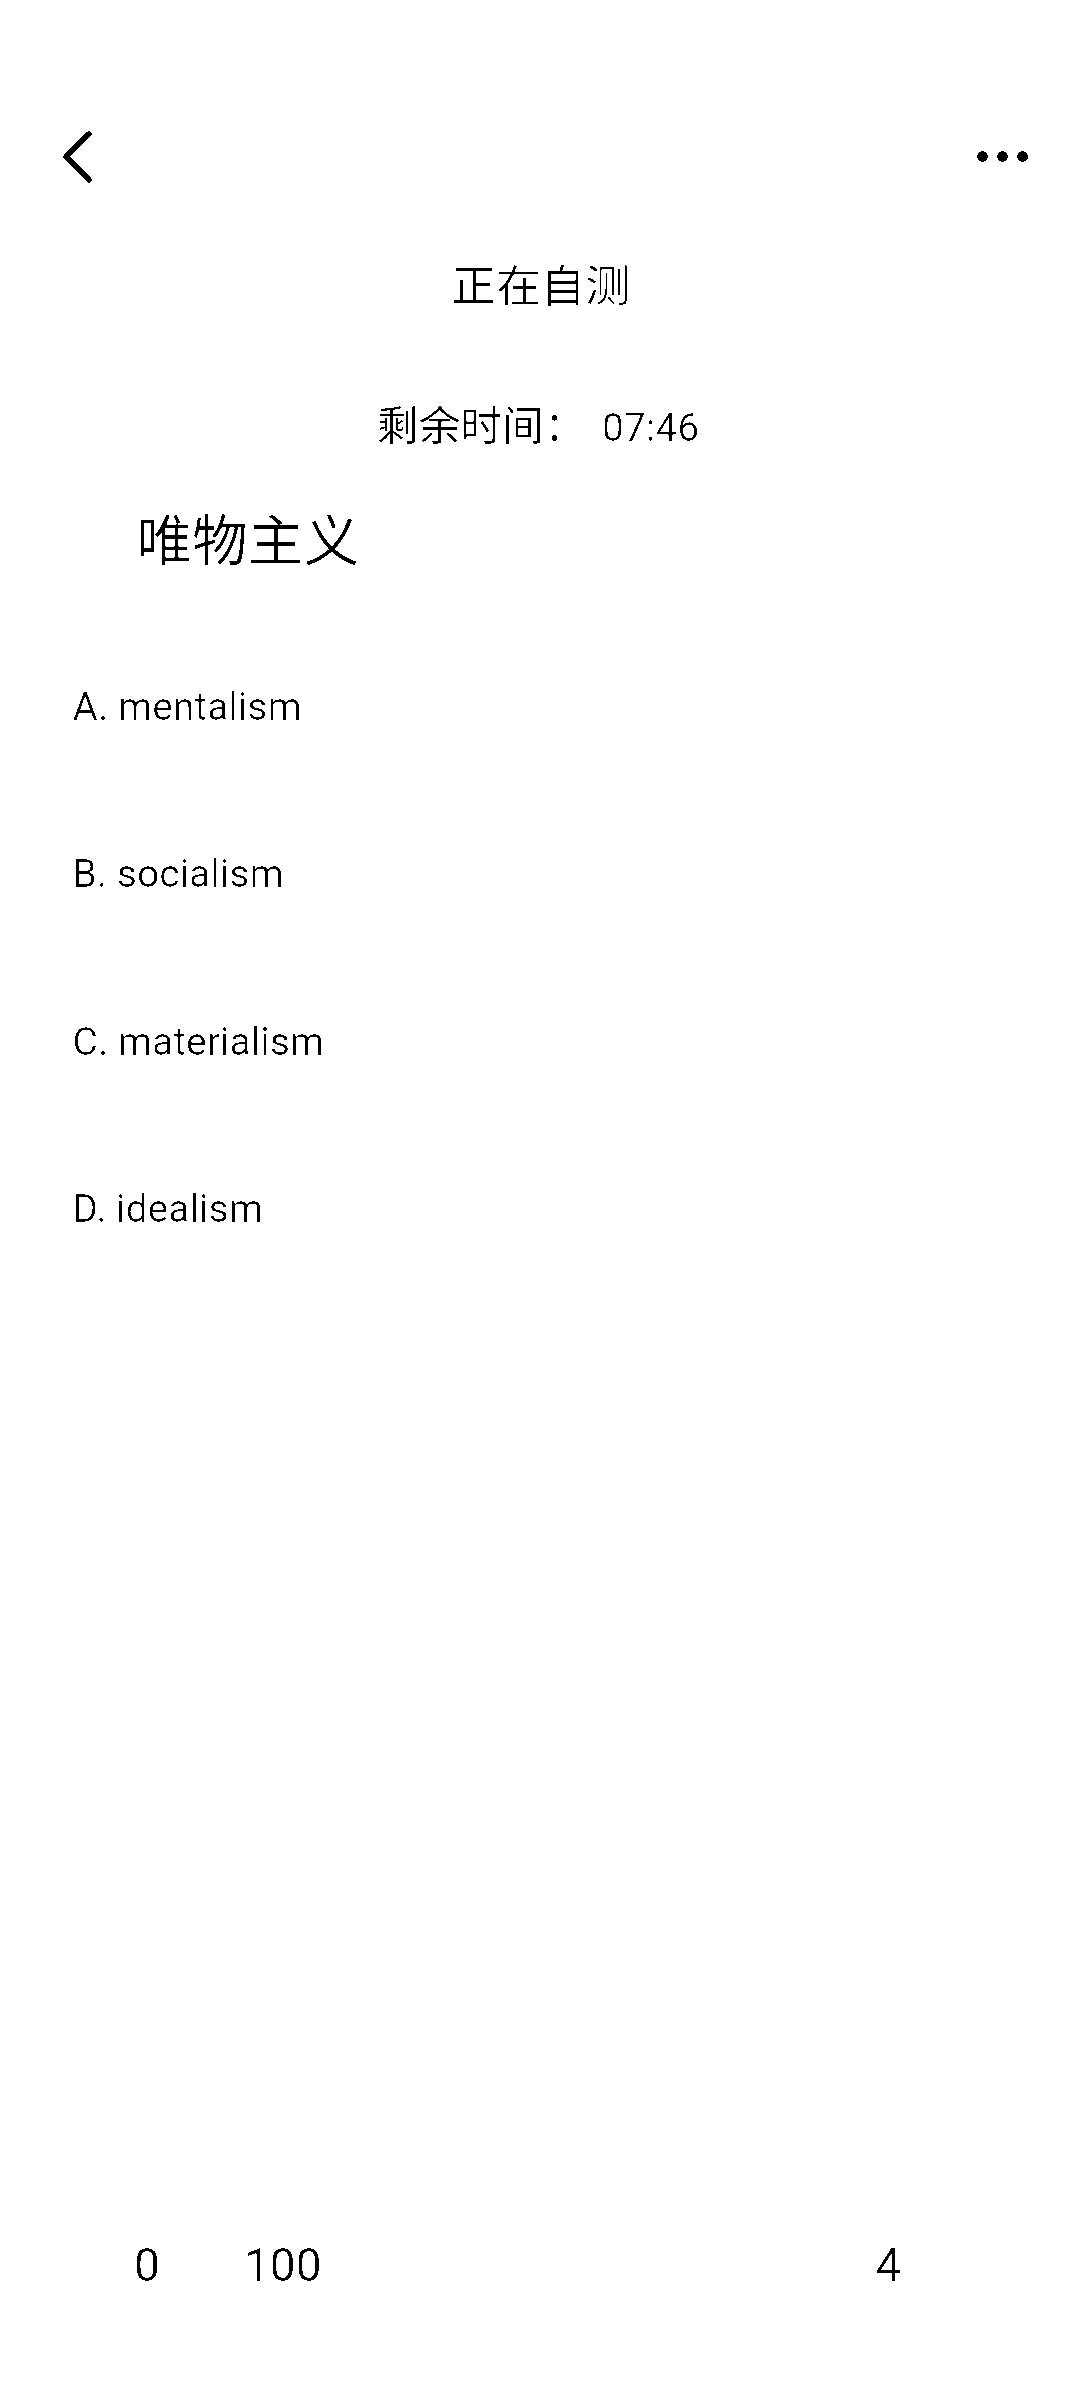
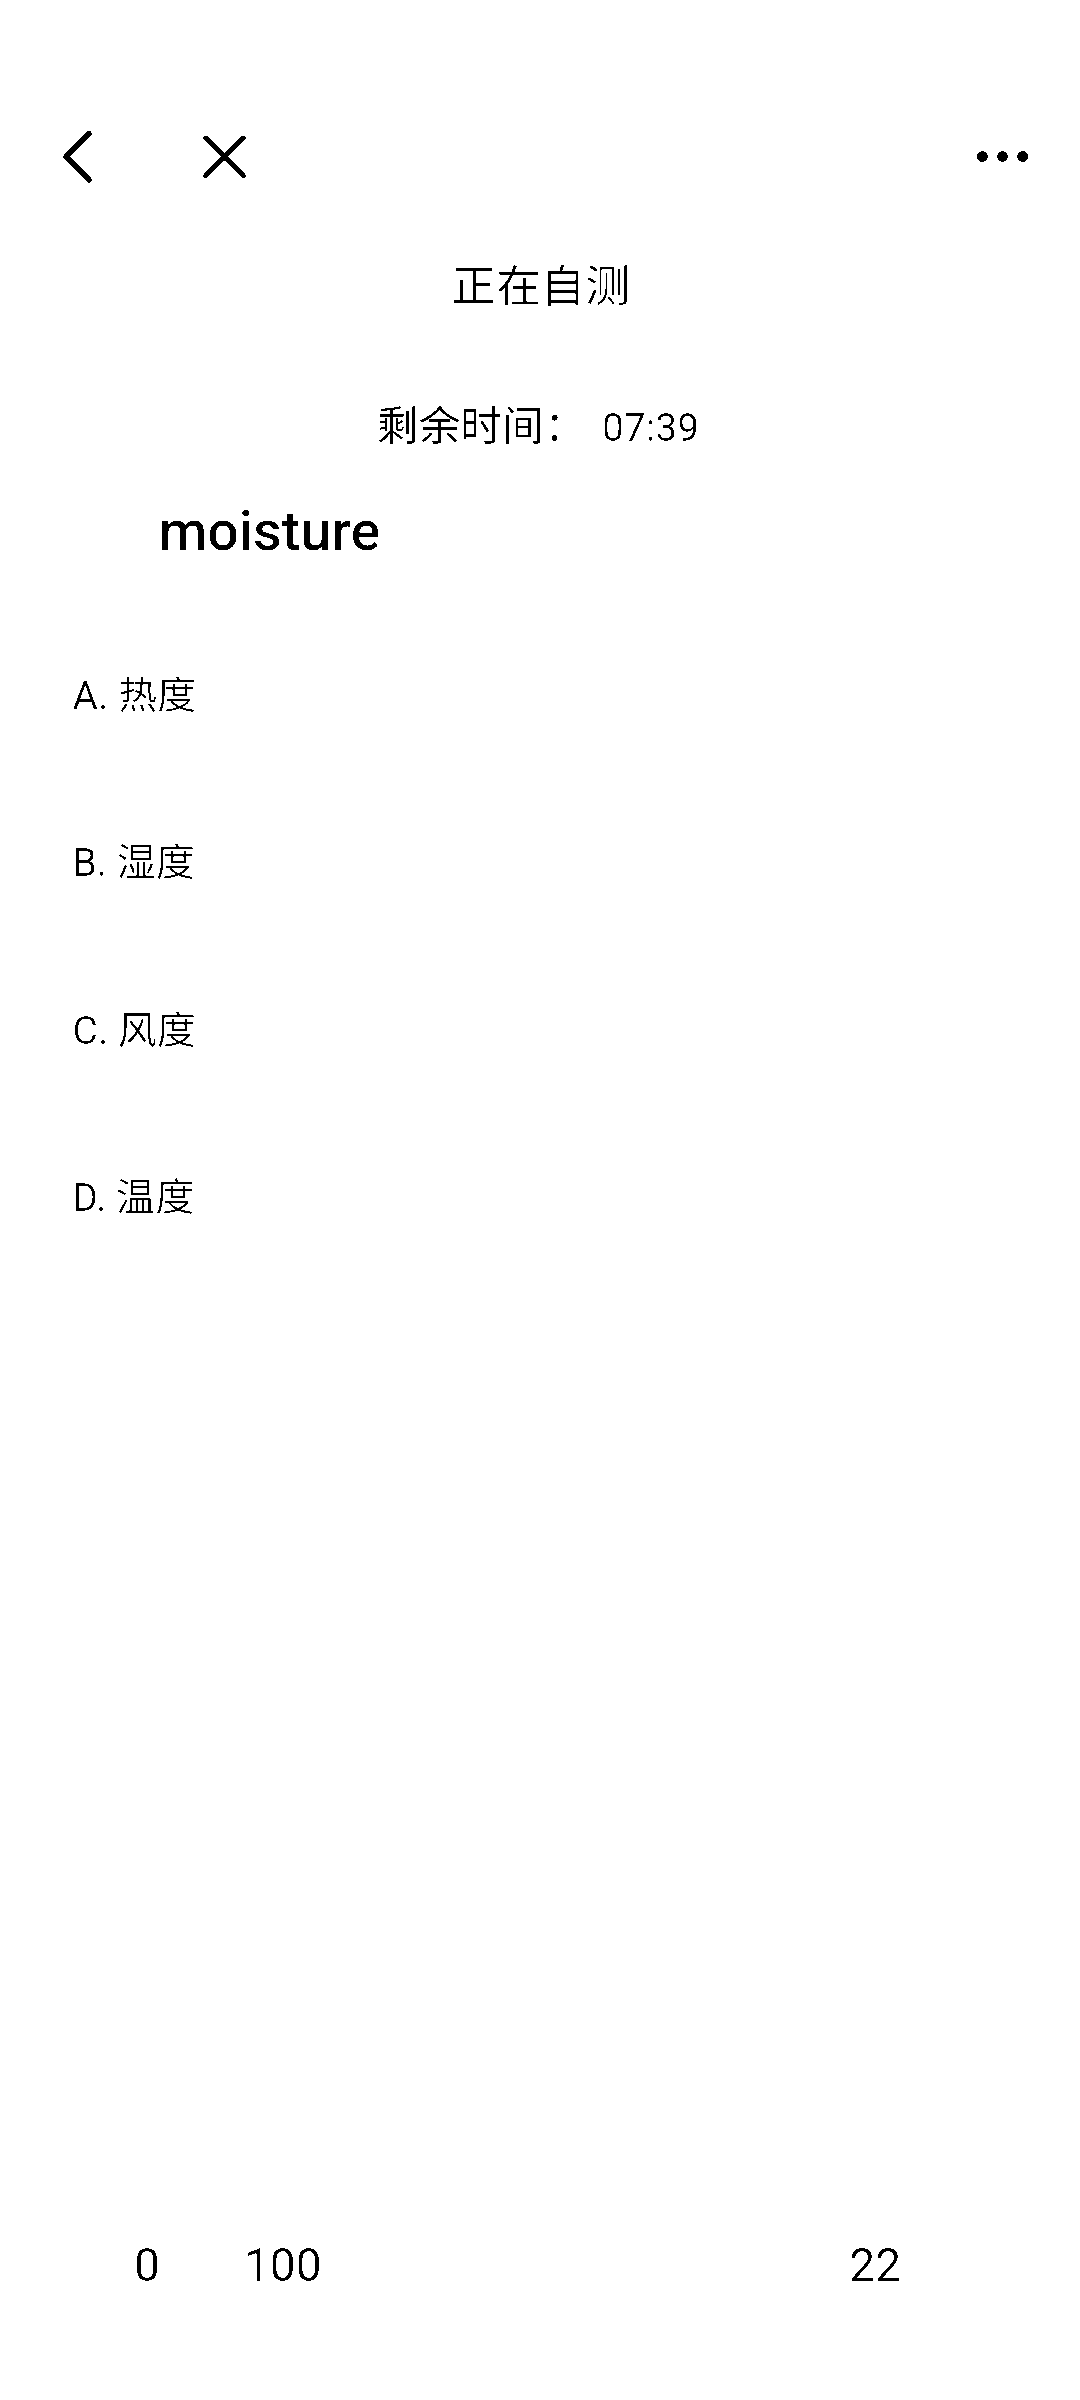
v0.2.0

diff --git a/imgPross.cpp b/imgPross.cpp
@@ -6,7 +6,7 @@ using namespace cv;
 #pragma warning(disable : 4996)
 #pragma warning(disable : 6387)
 
-bool imgPross()
+bool imgPross(const char* item)
 {
 	Mat img = imread("./orgImg.png", 0);
 	if (img.empty())
@@ -16,14 +16,14 @@ bool imgPross()
 	//imshow("test", img);
 	//waitKey(0);
 	Mat poss_img;
-	threshold(img, poss_img, 80, 255, THRESH_BINARY);
+	threshold(img, poss_img, 90, 255, THRESH_BINARY);
 	//imshow("test", poss_img);
 	//waitKey(0);
 	imwrite("after_pros.png", poss_img);
 	char* fileDir = (char*)malloc(260);
 	getcwd(fileDir, 260);
 	char* output = (char*)malloc(1024);
-	sprintf_s(output, 1024, "tesseract %s/after_pros.png %s/text -l eng", fileDir, fileDir);
+	sprintf_s(output, 1024, "tesseract %s/after_pros.png %s/text -l %s", fileDir, fileDir,item);
 	cout << output;
 	system(output);
 	free(fileDir);

diff --git a/main.cpp b/main.cpp
@@ -12,22 +12,38 @@ using namespace std;
 
 //bool HttpGetReq(char* vocabulary);
 bool analysis(char* vocabulary);
-bool imgPross();
+bool imgPross(const char* item);
 
 int main()
 {
 	//system("chcp 65001"); 
-	imgPross();
+	imgPross("eng");
 	ifstream text;
 	text.open("text.txt", ios::in);
-	char* textTemp=(char*)malloc(64);
-	text >> textTemp;
+	string eng[2];
+	text >> eng[0];
+	while (!text.eof())
+	{
+		eng[1] = eng[0];
+		text >> eng[0];
+		if (((eng[0].compare("A"))==0)|| ((eng[0].compare("A.")) == 0))
+		{
+			if (isalpha((eng[1])[0]))
+			{
+				analysis((char*)eng[1].c_str());
+			}
+			break;
+		}
+	}
+	
+	
+	/*
 	while (!text.eof())
 	{
 		text >> textTemp;
-		analysis((char*)textTemp);
+		
 	}
-	
+	*/
 	return 0;
 
 }
